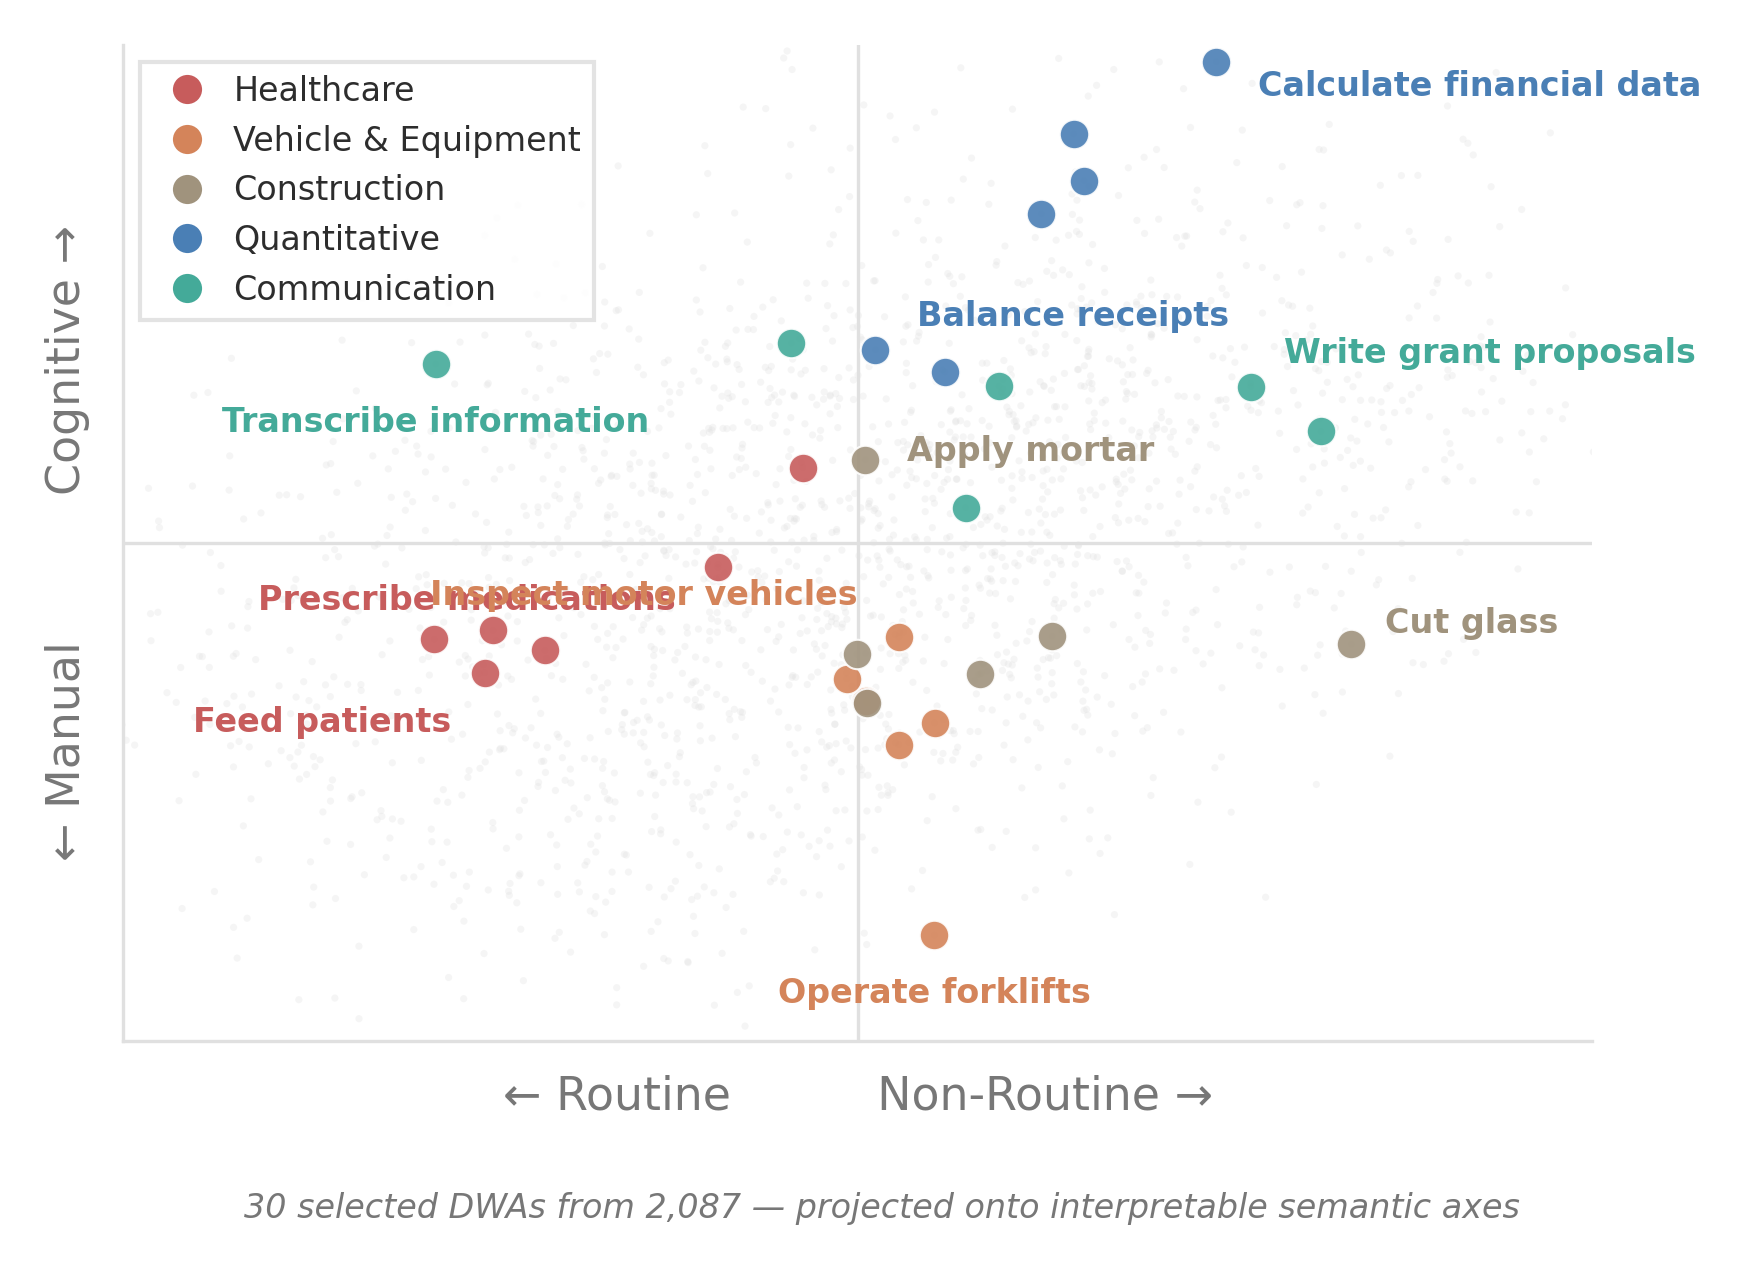
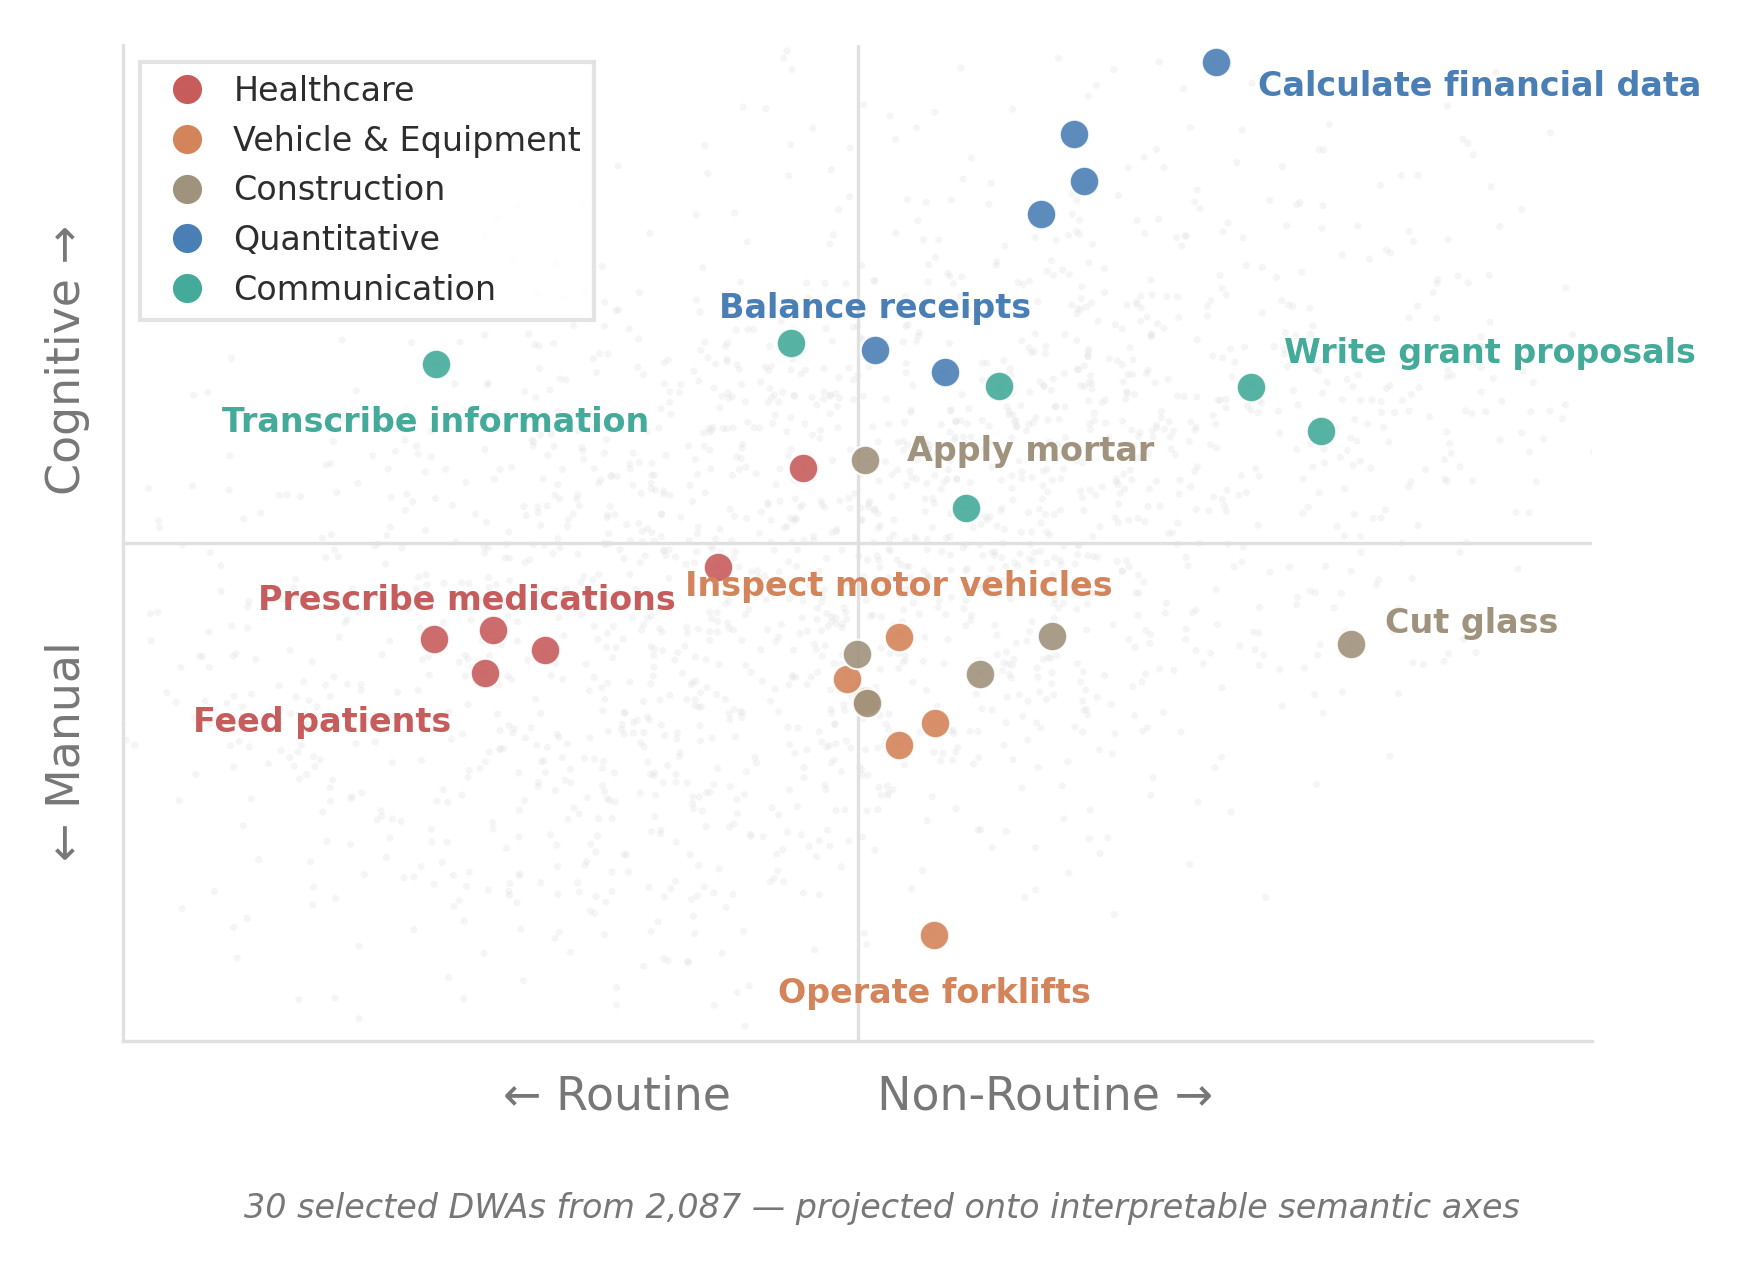
v0.7.10.20: Fig3 label nudges — Balance and Inspect centered above dots

Changed region(s): [[0.2474, 0.4299, 0.6495, 0.4913], [0.4021, 0.215, 0.7113, 0.2764]]

diff --git a/figures/fig3_task_scatter.py b/figures/fig3_task_scatter.py
@@ -93,11 +93,11 @@ LABELED = {
 LABEL_OFFSETS = {
     'Feed patients.':         (-8, -12),
     'Prescribe medications.': (-10, -8),
-    'Inspect motor vehicles.': (-10, 10),
+    'Inspect motor vehicles.': (0, 12),
     'Operate forklifts or other loaders.': (0, -14),
     'Apply mortar.':          (10, 2),
     'Cut glass.':             (8, 5),
-    'Balance receipts.':      (10, 8),
+    'Balance receipts.':      (0, 10),
     'Calculate financial data.': (10, -6),
     'Write grant proposals.': (8, 8),
     'Transcribe spoken or written information.': (0, -14),

diff --git a/LEDGER.md b/LEDGER.md
@@ -1,6 +1,6 @@
 # LEDGER.md — Task-Space Oracle Research State
 
-**Current Version:** 0.7.10.19
+**Current Version:** 0.7.10.20
 **Last Updated:** 2026-03-10
 **Paper Draft:** `paper/main.tex`
 
@@ -764,6 +764,7 @@ Deprecated approaches. Do not retry.
 | Version | Date | Changes |
 |---------|------|---------|
 | 0.7.9.3 | 2026-03-09 | Captions for fig3/fig4, swap fig5/fig6 to Budget vs Credit Analysts. |
+| 0.7.10.20 | 2026-03-10 | Fig3 label nudges — Balance and Inspect centered above dots. |
 | 0.7.10.19 | 2026-03-10 | Fig3 label nudges — Balance right, Inspect left, Forklifts centered. |
 | 0.7.10.18 | 2026-03-10 | Fig3 label repositioning pass 2 — swap Edit→Transcribe, fix overlaps. |
 | 0.7.10.17 | 2026-03-10 | Fig3 label repositioning — clear overlaps between themes. |
